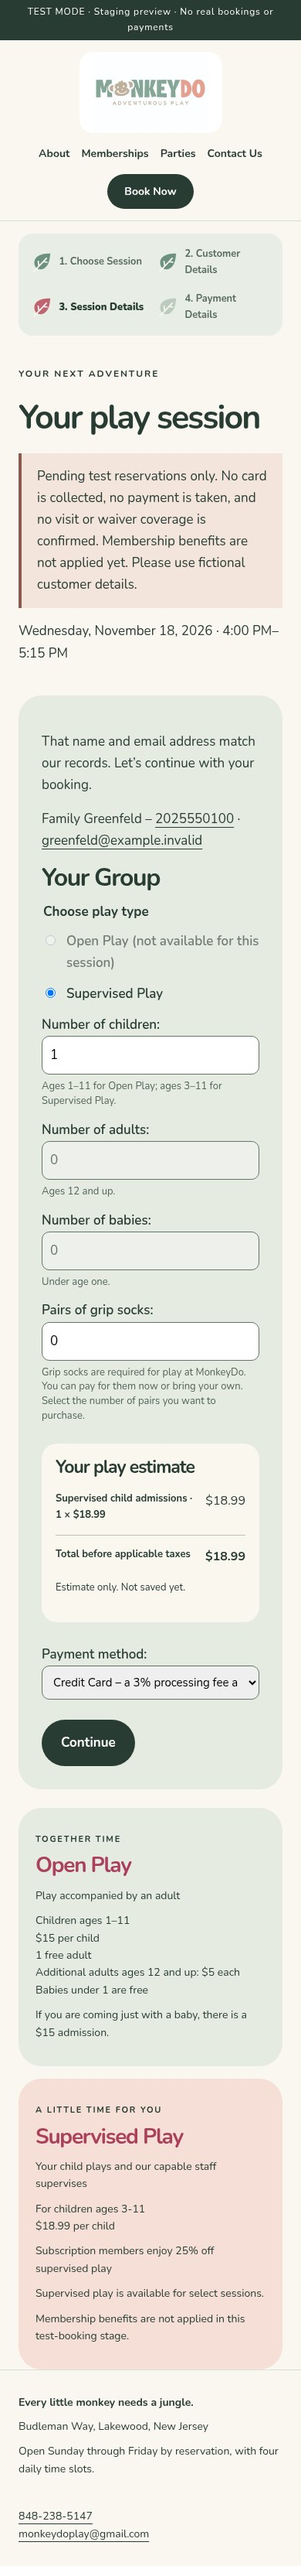
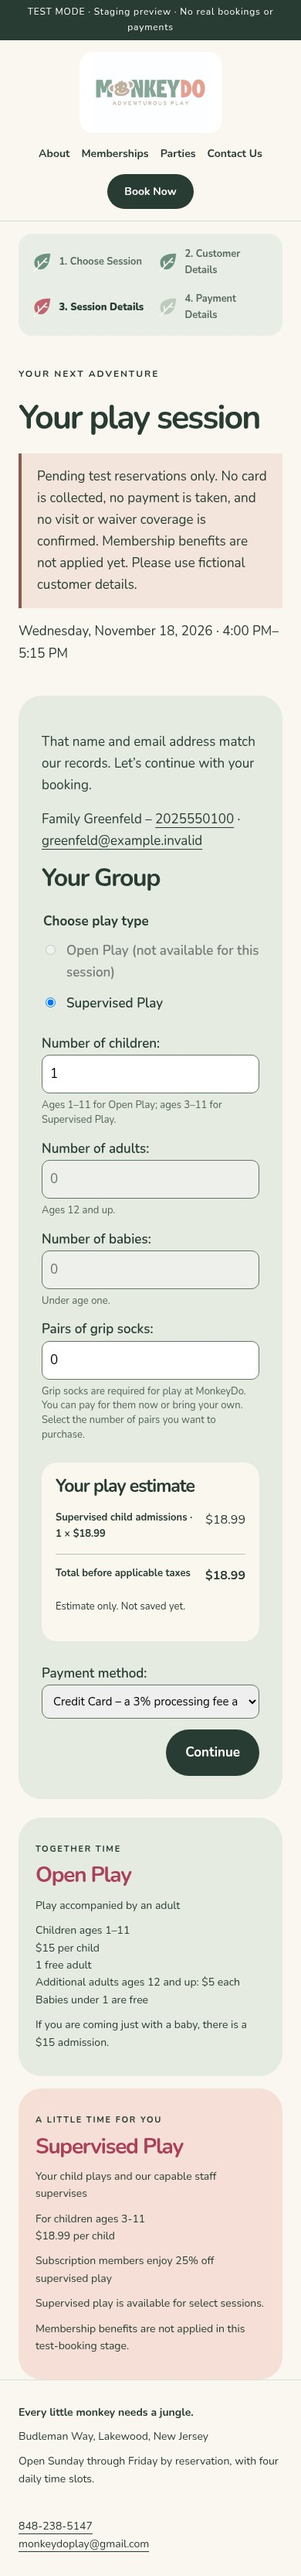
Space booking choices and right-align Continue

diff --git a/static/core/site.css b/static/core/site.css
@@ -925,7 +925,7 @@ input[type="checkbox"],input[type="radio"] { width:auto; padding:0; margin-right
 /* Fourth owner-feedback batch: public group layout and compact staff lists. */
 .customer-booking-layout.with-play-info { grid-template-columns:minmax(0,740px) 260px; gap:120px; max-width:1120px; margin-inline:0 }
 .public-details-layout { display:grid; grid-template-columns:repeat(2,minmax(0,1fr)); gap:22px; align-items:start }
-.public-play-choice { grid-column:1 / -1; padding:0; border:0; margin:0 }
+.public-play-choice { grid-column:1 / -1; padding:0; border:0; margin:12px 0 }
 .public-play-choice legend { font-weight:700; margin-bottom:10px }
 .public-play-choice>div { display:flex; gap:12px 22px; flex-wrap:wrap }
 .public-play-choice label { display:flex; align-items:flex-start; gap:6px; margin:0 }
@@ -939,7 +939,7 @@ input[type="checkbox"],input[type="radio"] { width:auto; padding:0; margin-right
 .public-quantities .field-help { margin:6px 0 0; font-size:13px; line-height:1.45; color:#536459 }
 .booking-customer-summary { overflow-wrap:anywhere }
 .public-details-layout .live-booking-estimate { align-self:start; margin:0 }
-.public-payment .button { margin-top:12px }
+.public-payment .button { display:block; margin:12px 0 0 auto }
 .public-payment select { max-width:100%; font-size:15px }
 .public-details-layout input[readonly] { background:#eef0eb; color:#657269; cursor:help }
 .supervised-message { max-width:420px; padding:26px; border:1px solid #8ba695; border-radius:20px; background:#faf7ef; color:#293e34 }

diff --git a/docs/MONKEYDO_REQUIREMENTS.md b/docs/MONKEYDO_REQUIREMENTS.md
@@ -134,7 +134,7 @@ Collect Last Name, phone, email, date/session, baby/child/adult quantities, calc
 
 Validate in browser and server: required fields/consent, nonnegative integer counts, nonzero attendance, adult rule where applicable, card setup unless owner-comped, availability/end time, capacity and permissions. Online waiver must be covered before booking completes; admin/phone bookings may confirm pending.
 
-The visible public progress indicator has four steps: Choose Session, Customer Details, Session Details, Payment Details. Expected payment-method selection stays in Session Details; the breakdown and final reviewed save action live in Payment Details, without a separate visible Review step. Show completion afterward. Add a waiver step only when the approved waiver workflow is implemented. Show an itemized calculation before confirmation. Public Session Details has a read-only live estimate labelled Total before applicable taxes, placed at the upper right of the quantity section, with Payment method and Continue below it at the bottom right. All four quantity inputs stack on the left. Show Family/contact links, Your Group, then Choose play type; omit Start again from Session Details while retaining lookup/recovery restart actions; use quantity labels with separate age guidance. The live estimate shows only admissions/adults/socks and their base subtotal, excluding both card-processing fees and tax from its rows and total; final Payment Details shows the complete fee/tax-inclusive breakdown. Stack compact Open/Supervised information cards without booking buttons outside the form on desktop and below it on phones. Save immutable price/tax/fee/policy snapshots; an authorized edit creates a new revision with before/after audit, not silent rewriting of the original. Future owner pricing/settings do not alter accepted existing bookings or cohort prices.
+The visible public progress indicator has four steps: Choose Session, Customer Details, Session Details, Payment Details. Expected payment-method selection stays in Session Details; the breakdown and final reviewed save action live in Payment Details, without a separate visible Review step. Show completion afterward. Add a waiver step only when the approved waiver workflow is implemented. Show an itemized calculation before confirmation. Public Session Details has a read-only live estimate labelled Total before applicable taxes, placed at the upper right of the quantity section, with Payment method and Continue below it at the bottom right. All four quantity inputs stack on the left. Add breathing room above and below the play-type selector; the estimate stays top-aligned with the quantity fields as they move down. Right-align Continue beneath the payment selector. Show Family/contact links, Your Group, then Choose play type; omit Start again from Session Details while retaining lookup/recovery restart actions; use quantity labels with separate age guidance. The live estimate shows only admissions/adults/socks and their base subtotal, excluding both card-processing fees and tax from its rows and total; final Payment Details shows the complete fee/tax-inclusive breakdown. Stack compact Open/Supervised information cards without booking buttons outside the form on desktop and below it on phones. Save immutable price/tax/fee/policy snapshots; an authorized edit creates a new revision with before/after audit, not silent rewriting of the original. Future owner pricing/settings do not alter accepted existing bookings or cohort prices.
 
 ## 7. Customers and public identification
 

diff --git a/docs/OWNER_EDITS_BATCH_4.md b/docs/OWNER_EDITS_BATCH_4.md
@@ -13,7 +13,7 @@ with booking-page image comments; do not merge/deploy before that review.
 | Item | Implemented behavior |
 | --- | --- |
 | 1 | Omit Check the booking page to see which sessions offer it only from the booking-page Supervised Play information card. Preserve homepage/About wording. |
-| 2 | Narrower left-aligned green panel/inputs with a clear gap before outside play cards. Family/contact links, Your Group, then Choose play type. No Start again link on Session Details; retain it on lookup/recovery screens. All four quantity fields stack left; estimate upper right and Payment method/Continue bottom right. Quantity labels are explicit; age guidance is separate. Stack on phones. |
+| 2 | Narrower left-aligned green panel/inputs with a clear gap before outside play cards. Family/contact links, Your Group, then Choose play type. No Start again link on Session Details; retain it on lookup/recovery screens. All four quantity fields stack left; estimate upper right and Payment method/Continue bottom right. Quantity labels are explicit; age guidance is separate. Add space above/below play choices, moving quantities and estimate down together; right-align Continue. Stack on phones. |
 | 3 | Public form always shows Open/Supervised radios; unavailable choices are disabled/labelled. Open is default when available; supervised-only defaults to Supervised. Public Supervised selection resets adults/babies to zero and makes them read-only, with Supervised play is children only popup on attempted change. Restore prior Open values when switching back. Staff retain validation rather than locking. Estimate recalculates after the reset; server still rejects forged/nonzero supervised quantities. |
 | 4 | Customers search input is narrower, with type selector and Search aligned on desktop; All types remains the initial selection. Responsive stacking retains usability. |
 | 5 | Bookings, Today, Customers and Membership drafts have 10/25/50/100 rows, default 25, numbered/Previous/Next links, preserved filters/sort and page-one reset on size/filter change. Today totals/matching count remain independent of the displayed page. |

diff --git a/docs/BUILD_STATUS.md b/docs/BUILD_STATUS.md
@@ -15,9 +15,12 @@ The subsequent booking-image correction left-aligns the panel, places all four
 quantity fields left and estimate/payment right, places Your Group above the
 play choices and separates age help from quantity labels. The latest owner
 correction removes Start again only from Session Details and widens the desktop
-gap before the outside play cards to 120px. It passed 41 affected
-tests and refreshed 1440/390px captures plus 320px checks; the existing full-suite
-result above precedes that presentation follow-up. GitHub rechecks the new head.
+gap before the outside play cards to 120px. A further CSS-only revision
+right-aligns Continue and adds space above/below the play choices, moving
+quantities and estimate down together. Refreshed browser checks and 1440/390px
+captures plus 320px checks cover this CSS-only revision. The prior template
+follow-up passed 41 affected tests; the existing full-suite result above precedes
+these presentation revisions. GitHub rechecks the new head.
 
 The owner requested one draft PR, updated with booking-page image comments before
 marking ready. No hosted deployment or schema change occurred for this batch;

diff --git a/docs/CUSTOMER_BOOKING_DEVELOPMENT.md b/docs/CUSTOMER_BOOKING_DEVELOPMENT.md
@@ -140,8 +140,9 @@ The narrower public panel aligns left with a wider desktop gap before the outsid
 Its order is Family/contact links, Your Group, then Choose play type. Session
 Details omits Start again; lookup/recovery screens retain their restart actions. All four
 quantity inputs stack on the left, with the estimate upper right and Payment
-method/Continue bottom right. Quantity labels are explicit and age guidance is
-separate; this supersedes the initial fourth-batch layout after image review. Always show both play
+method/Continue bottom right, with Continue right-aligned. Add more space above
+and below the play choices while keeping the estimate level with the quantities.
+Quantity labels are explicit and age guidance is separate; this supersedes the initial fourth-batch layout after image review. Always show both play
 choices, disabling unavailable ones. Open defaults when possible; supervised-only
 uses Supervised. Public Supervised sets/locks adults/babies to zero, reports an
 attempted edit with the approved popup and recalculates the estimate. Switching

diff --git a/docs/design-review/owner-edits-batch-4/README.md b/docs/design-review/owner-edits-batch-4/README.md
@@ -28,6 +28,8 @@ Homepage/About imagery and layout are unchanged.
 Latest image-review revision: the narrower green panel aligns left with a clear
 120px desktop gap before the outside cards. Family/contact links precede Your Group
 and Choose play type. Start again is removed from Session Details only. Four inputs stack left with explicit quantity labels and separate
-age guidance; the estimate is upper right, payment/Continue bottom right. All
-eight JPGs reflect this revision. The 41 affected public-booking tests and browser
-checks passed; the PR remains a draft for image approval.
+age guidance; the estimate is upper right, payment/Continue bottom right. Continue
+is right-aligned. Extra space surrounds the play choices, with quantities and
+estimate moving down together and keeping their top alignment. All
+eight JPGs reflect this revision. The prior template follow-up passed 41 affected
+public-booking tests; browser checks passed again for this CSS-only spacing change; the PR remains a draft for image approval.

diff --git a/docs/STAGING_TEST_PLAN.md b/docs/STAGING_TEST_PLAN.md
@@ -276,7 +276,8 @@ after approved deployment, per this batch's explicit review instruction.
 - B4-LAYOUT: left-aligned narrow panel with wider outside-card separation; Family/contact,
   Your Group and Choose play type order. No Start again action on Session Details;
   lookup/recovery restart actions remain. Four quantity fields stack left, estimate
-  upper right and Payment/Continue bottom right. Quantity labels and separate age
+  upper right and Payment/Continue bottom right, with Continue right-aligned.
+  Extra space surrounds the play choices; quantities and estimate move down together. Quantity labels and separate age
   help, phone stacking and 320px no overflow.
   Check only booking card omits Check the booking page; homepage/About unchanged.
 - B4-PLAY: both radios visible, unavailable disabled, Open default/supervised-only

diff --git a/docs/DECISION_LOG.md b/docs/DECISION_LOG.md
@@ -518,3 +518,12 @@ type, and move outside Open/Supervised information cards farther right. Keep the
 to the cards to 120px, with existing narrower-screen stacking. Lookup/recovery
 restart actions, matching, pricing and validation remain unchanged. Refresh the
 same eight booking-page images in draft PR #28; deployment awaits owner approval.
+
+
+## Fourth-batch booking-page spacing refinement
+
+Owner requested Continue aligned to the right, more space between Your Group and
+play choices and between choices and quantities. Add vertical selector margins
+without separating the shared quantities/estimate grid row, so their tops remain
+parallel. Preserve narrow fields, separate age guidance and wider outside-card
+gap. Update the same draft PR and eight booking-page images before deployment.
